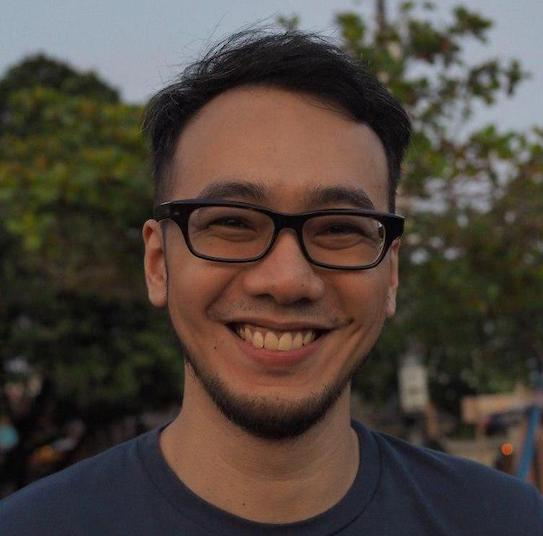
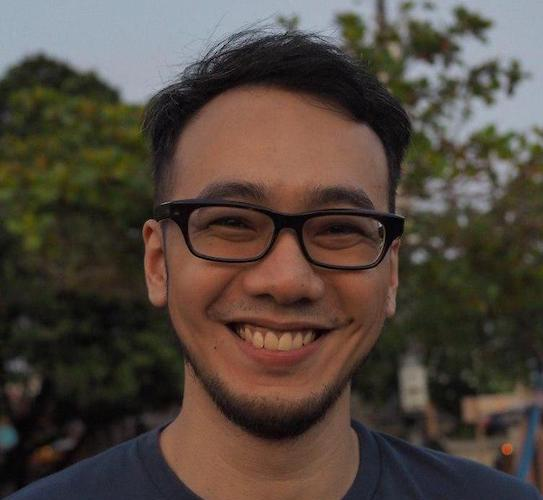
Update intro blurb

diff --git a/src/components/Main.js b/src/components/Main.js
@@ -28,7 +28,7 @@ class Main extends React.Component {
         >
           <h2 className="major">About Me</h2>
           <span className="image main">
-            <img src={pic01} alt="" />
+            <img src={pic01} alt="" width={100} />
           </span>
           <p>
             I'm an exceptional communicator and problem solver experienced with the uncertainty of life, passionate about meaningful endeavours that bring real impact to people. Currently learning more about cybersecurity, machine learning, and software engineering.
@@ -44,9 +44,12 @@ class Main extends React.Component {
           style={{ display: 'none' }}
         >
           <h2 className="major">Projects</h2>
+          {
+            // TODO: Expand on TEAMMATES
+          }
           <h3><a href={"https://github.com/TEAMMATES/teammates"} target="_blank" rel="noopener noreferrer">TEAMMATES</a></h3>
           <p>
-            Collaborator for an award winning peer review feedback system utilised by students and educators all over the globe. Primarily involved in testing and security.
+            Collaborator for an award winning peer review feedback system utilised by students and educators all over the globe. Lead manager for testing and security.
           </p>
           <h3><a href={"https://zaproxy.org"} target="_blank" rel="noopener noreferrer">OWASP Zed Attack Proxy</a></h3>
           <p>
@@ -67,13 +70,16 @@ class Main extends React.Component {
           style={{ display: 'none' }}
         >
           <h2 className="major">Experience</h2>
+          {
+            // TODO: Add HTX ForensiCloud
+          }
           <h3>National University of Singapore</h3>
           <p>
             Bachelor's in Computing with Honours, Computer Science. Enrolled in the University Scholars Programme. Employed as a Teaching Assistant in the School of Computing and as a Residential Assistant in Cinnamon College.
           </p>
           <h3>Singapore Police Force</h3>
           <p>
-            Employed by the Criminal Investigation Department of the SPF under the Technology Crime Division as a digital forensics specialist. I doubled up as a devOps engineer and web developer due to my abilities in programming, which meant that I ended up leading various tech projects for both my home department as well as the then newly established Cybercrime Command.
+            I was employed by the Criminal Investigation Department of the SPF under the Technology Crime Division as a digital forensics engineer. I doubled up as a devOps engineer and web developer due to my abilities in programming and server/network administration, which meant that I ended up leading various tech projects for both my home department as well as the then newly established Cybercrime Command.
           </p>
           {close}
         </article>

diff --git a/src/components/Header.js b/src/components/Header.js
@@ -10,11 +10,11 @@ const Header = props => (
       <div className="inner">
         <h1>Ahmed Bahajjaj</h1>
         <p>
-          Ex Digital Forensics Specialist and Web Developer at the Singapore Police Force.&nbsp;
+          Penultimate Computer Science Undergraduate at the National University of Singapore.&nbsp;
           <br/>
-          Computer Science Undergraduate at the National University of Singapore.&nbsp;
+          Ex Digital Forensics Engineer, Web Developer, and DevOps Engineer for the Ministry of Home Affairs, Singapore.&nbsp;
           <br/>
-          <a href={"http://bit.ly/Ahmed-Resume"} target="_blank" rel="noopener noreferrer">Click here for resume.</a>
+          <a href={"http://bit.ly/Ahmed-Resume"} target="_blank" rel="noopener noreferrer">Resume available here.</a>
         </p>
       </div>
     </div>
